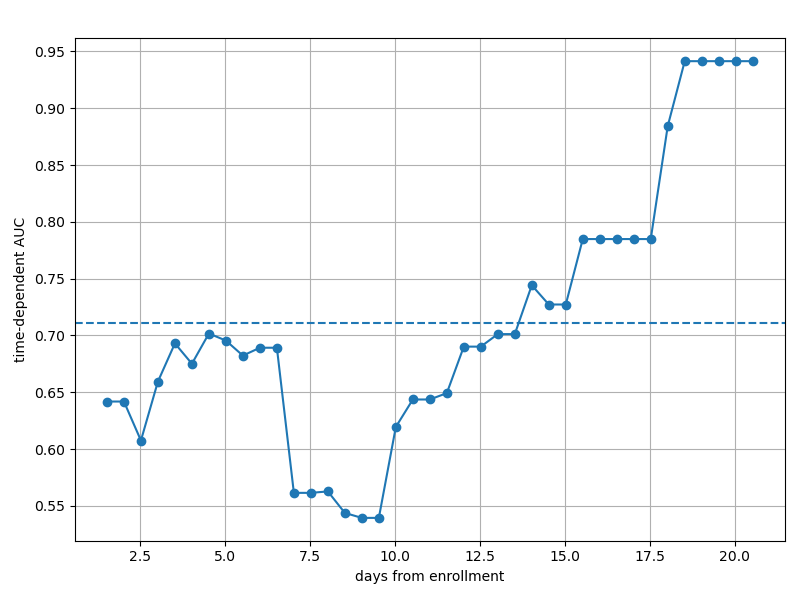
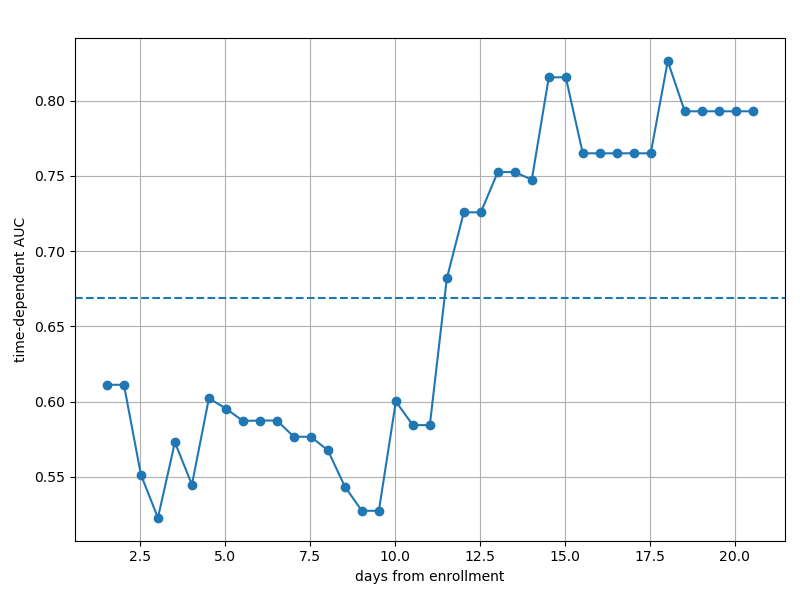
Changes

diff --git a/Implementation/Logic/Trainer.py b/Implementation/Logic/Trainer.py
@@ -3,6 +3,7 @@ import math
 
 from typing import List
 
+from sklearn.cluster import KMeans
 from sklearn.model_selection import KFold, GridSearchCV
 from sksurv.linear_model import CoxnetSurvivalAnalysis
 from sksurv.metrics import cumulative_dynamic_auc
@@ -110,9 +111,9 @@ class Trainer:
         latent_space_train = eval_model.model.get_latent_space(torch.tensor(eval_model.unroll_Xtrain())).detach().numpy()
         latent_space_test = eval_model.model.get_latent_space(torch.tensor(eval_model.unroll_Xtest())).detach().numpy()
 
-        start = 0.00001
-        stop = 0.05
-        step = 0.0005
+        start = 0.0001
+        stop = 0.1
+        step = 0.0003
         estimated_alphas = np.arange(start, stop + step, step)
 
         # we remove warnings when coefficients in Cox PH model are 0
@@ -232,14 +233,20 @@ def plot_tsne_coefs(data, names, dir):
     for i in names:
         print(i)
 
+    kmeans = KMeans(n_clusters = 2, random_state = 42)
+    kmeans.fit(data)
+    cluster_labels = kmeans.labels_
+
     x_embedded = TSNE(n_components=2, perplexity=2).fit_transform(np.array(data))
 
     plt.figure(figsize=(8, 6))
 
-    plt.scatter(x_embedded[:, 0], x_embedded[:, 1], c='blue', alpha=0.7, label='Data Points')
+    plt.scatter(x_embedded[:, 0], x_embedded[:, 1], c=cluster_labels, cmap = 'viridis', alpha=0.7, label='Data Points')
+    plt.scatter(kmeans.cluster_centers_[:, 0], kmeans.cluster_centers_[:, 1], c='red', marker='X', s=100,
+                label='Centroids')
     plt.xlabel('Dimension 1', fontsize=12)
     plt.ylabel('Dimension 2', fontsize=12)
-    plt.title('t-SNE Visualization', fontsize=14)
+    plt.title('t-SNE Visualization with KMeans clustering', fontsize=14)
     # plt.legend(loc='best', fontsize=10)
     plt.grid(True)
     plt.tight_layout()
@@ -250,6 +257,7 @@ def plot_tsne_coefs(data, names, dir):
 
 
 def plot_losses(epochs, data_tr, data_val, dir):
+    DEBUG = False
     combined_tr = [sum(values) for values in zip(*[data_tr[key] for key in data_tr.keys()])]
     combined_val = [sum(values) for values in zip(*[data_val[key] for key in data_val.keys()])]
 
@@ -263,13 +271,14 @@ def plot_losses(epochs, data_tr, data_val, dir):
     plt.text(epochs[-1] + 0.15, combined_tr[-1], 'ALL', verticalalignment='center', fontsize=7)
     plt.text(epochs[-1] + 0.15, combined_val[-1], 'ALL', verticalalignment='center', fontsize=7)
 
-    for idx, key in enumerate(list(data_tr.keys())):
-        plt.plot(epochs, data_tr[key], linestyle='--', color='#1f77b4', linewidth=2, alpha=0.5)
-        plt.text(epochs[-1] + 0.15, data_tr[key][-1], key, verticalalignment='center', fontsize=7, color='#1f77b4')
+    if DEBUG:
+        for idx, key in enumerate(list(data_tr.keys())):
+            plt.plot(epochs, data_tr[key], linestyle='--', color='#1f77b4', linewidth=2, alpha=0.35)
+            plt.text(epochs[-1] + 0.15, data_tr[key][-1], key, verticalalignment='center', fontsize=7, color='#1f77b4')
 
-    for idx, key in enumerate(list(data_val.keys())):
-        plt.plot(epochs, data_val[key], linestyle='--', color='#ff7f0e', linewidth=2, alpha=0.5)
-        plt.text(epochs[-1] + 0.15, data_val[key][-1], key, verticalalignment='center', fontsize=7, color='#ff7f0e')
+        for idx, key in enumerate(list(data_val.keys())):
+            plt.plot(epochs, data_val[key], linestyle='--', color='#ff7f0e', linewidth=2, alpha=0.35)
+            plt.text(epochs[-1] + 0.15, data_val[key][-1], key, verticalalignment='center', fontsize=7, color='#ff7f0e')
 
     plt.axhline(bestVal, linestyle='-', color='#FF6961', linewidth=2, alpha=1)
 

diff --git a/Implementation/Logic/Main.py b/Implementation/Logic/Main.py
@@ -23,12 +23,12 @@ if __name__ == "__main__":
     L = 300
     #aeModel = AE(d.input_dim_train(), L)
 
-    loss_args = {'reg_param': 0.05}
+    loss_args = {'reg_param': 0.1}
     loss_fn = LossHandler(LossType.SPARSE, loss_args)
     aeModel = MWE_AE(d.input_dim_train(), L)
     optim = torch.optim.Adam(aeModel.parameters(), lr = 0.01)
-    instanceModel = TrainingModel("MWP", d.X_train_batch, d.Y_train_batch, d.X_test_batch, d.Y_test_batch,
-                                  d.X_val_batch, d.Y_val_batch, aeModel, loss_fn, optim, 50, d.fetch_columns(), L, 'best_model_loss_7062.pth')
+    instanceModel = TrainingModel("MWP_no_norm", d.X_train_batch, d.Y_train_batch, d.X_test_batch, d.Y_test_batch,
+                                  d.X_val_batch, d.Y_val_batch, aeModel, loss_fn, optim, 100, d.fetch_columns(), L)#, 'best_model_loss_7062.pth')
 
     trainer = Trainer([instanceModel])
     trainer.trainAll()

diff --git a/Implementation/Logic/TabularDataLoader.py b/Implementation/Logic/TabularDataLoader.py
@@ -19,7 +19,7 @@ class TabularDataLoader:
         y = self.prepare_labels()
         self.X_train, self.Y_train, self.X_test, self.Y_test, self.X_val, self.Y_val = self.train_test_val_split(X, y,
                                                                                                                  1 - trte_ratio)
-        self._normalize_data()
+        #self._normalize_data()
         self._create_batches(64)
 
     def describe_dataframe(self):
@@ -61,7 +61,7 @@ class TabularDataLoader:
         '''
         Normalizes train and test data
         '''
-        scaler = MinMaxScaler()
+        scaler = MinMaxScaler(feature_range=(0,1))
 
         self.X_train = pd.DataFrame(scaler.fit_transform(self.X_train), columns=self.X_train.columns,
                                     index=self.X_train.index)

diff --git a/Implementation/Logic/Autoencoders/MinWorkingExample.py b/Implementation/Logic/Autoencoders/MinWorkingExample.py
@@ -35,7 +35,7 @@ class MWE_AE(torch.nn.Module):
             torch.nn.Dropout(0.1),
             torch.nn.Linear(500,L),
             torch.nn.BatchNorm1d(L),
-            torch.nn.Sigmoid()
+            torch.nn.ReLU()
         )
 
         self.decoder = torch.nn.Sequential(
@@ -61,7 +61,7 @@ class MWE_AE(torch.nn.Module):
             torch.nn.Dropout(0.1),
             torch.nn.Linear(2500, input_dim),
             torch.nn.BatchNorm1d(input_dim),
-            torch.nn.Sigmoid()
+            torch.nn.ReLU()
         )
 
     def forward(self, x):
